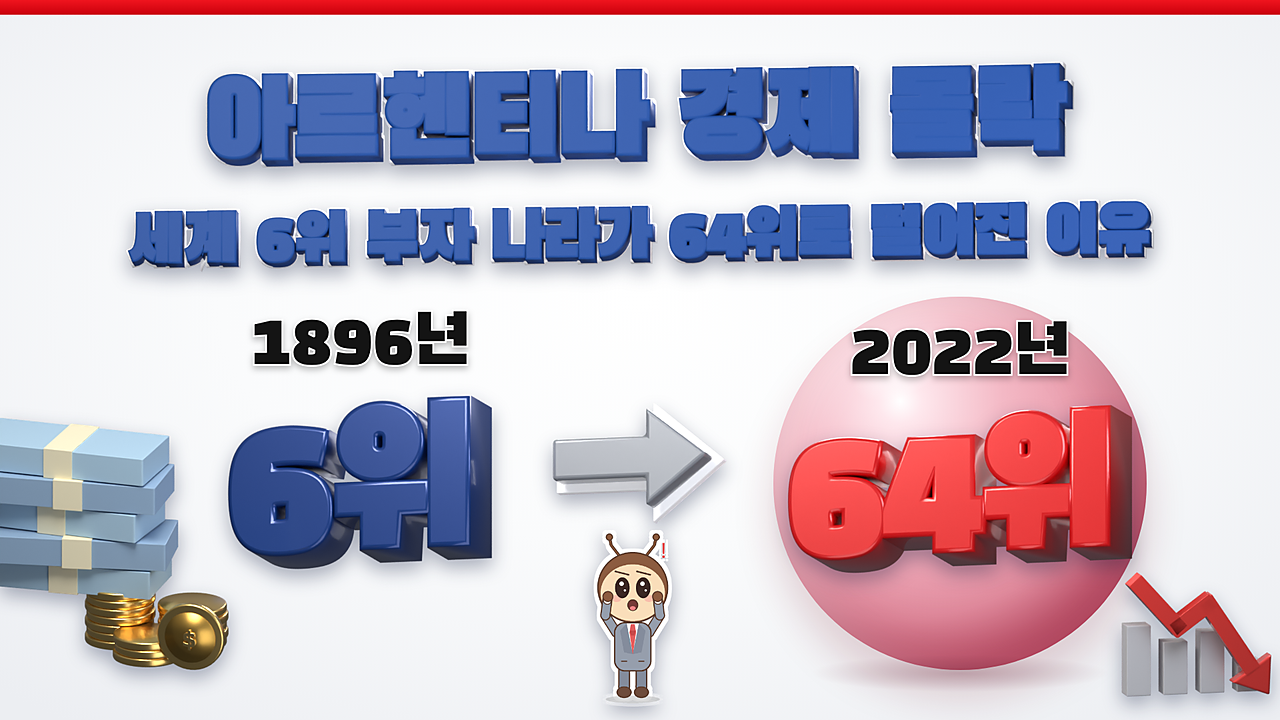
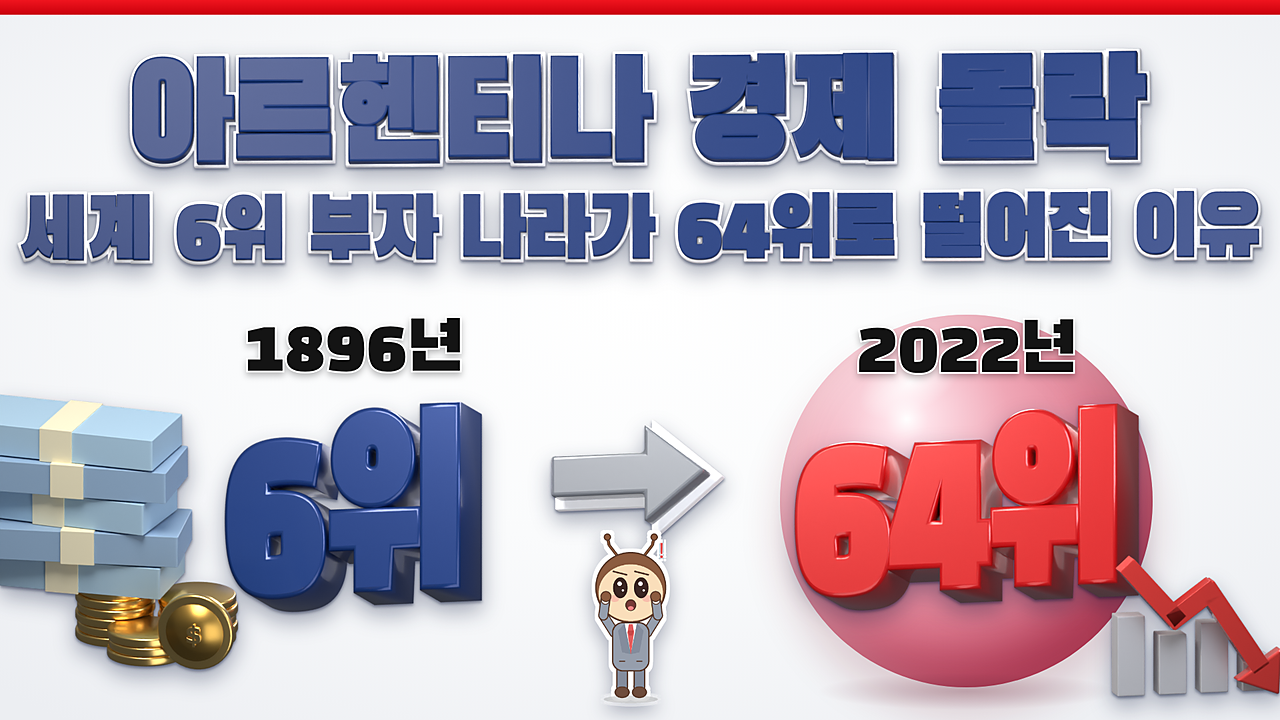
3D 대비형 썸네일 도구 완성·4편 썸네일, 각 편 기본 썸네일을 3D판으로 지정
Claude-Session: https://claude.ai/code/session_01FimgvnFwUXoVfoVUHJw6eG

diff --git a/neural-studio/tools/thumb3d_contrast/make.py b/neural-studio/tools/thumb3d_contrast/make.py
@@ -36,7 +36,7 @@ FONT = next(p for p in (os.path.join(NS, "assets", "fonts", "BlackHanSans.ttf"),
                         "/home/user/hf/thumb/assets/fonts/BlackHanSans-Regular.ttf") if os.path.exists(p))
 MASCOT_DIR = os.environ.get("MASCOT_DIR", "/home/user/hf/thumb/assets/mascot")
 CHROME = os.environ.get("CHROME", "/usr/bin/google-chrome")
-MASCOT_H = 300  # 화면 높이의 약 28%
+MASCOT_H = 330  # 화면 높이의 약 30%
 
 
 def blender(cfg_path, layer, samples, threads):
@@ -64,12 +64,12 @@ def html(cfg, layer, info):
         bb = info[b]
         cx, cy = (bb[0] + bb[2]) / 2, (bb[1] + bb[3]) / 2 - 10
         d = max(bb[2] - bb[0], bb[3] - bb[1]) * 1.02 + 30
-        d = min(d, 760)
+        d = min(d, 800)
         bubble_r = cx + d / 2
         parts.append(
             f'<div class="abs" style="left:{cx - d / 2:.0f}px;top:{cy - d / 2:.0f}px;width:{d:.0f}px;height:{d:.0f}px;border-radius:50%;'
-            'background:radial-gradient(circle at 34% 28%,rgba(255,255,255,.95) 0,rgba(255,225,232,.75) 6%,rgba(238,130,152,.55) 28%,'
-            'rgba(214,66,96,.58) 60%,rgba(170,20,52,.78) 90%,rgba(135,8,38,.85) 100%);'
+            'background:radial-gradient(circle at 34% 28%,rgba(255,255,255,.95) 0,rgba(255,215,225,.75) 6%,rgba(232,110,135,.6) 28%,'
+            'rgba(205,50,82,.66) 60%,rgba(160,14,46,.84) 90%,rgba(125,6,34,.9) 100%);'
             'box-shadow:inset -30px -40px 80px rgba(120,0,30,.35),inset 20px 20px 60px rgba(255,255,255,.45),0 40px 60px rgba(120,20,40,.18)"></div>'
             f'<div class="abs" style="left:{cx - d * 0.30:.0f}px;top:{cy - d * 0.40:.0f}px;width:{d * 0.30:.0f}px;height:{d * 0.16:.0f}px;border-radius:50%;'
             'transform:rotate(-28deg);background:radial-gradient(closest-side,rgba(255,255,255,.9),rgba(255,255,255,0))"></div>')
@@ -78,7 +78,7 @@ def html(cfg, layer, info):
                      'border-radius:50%;background:radial-gradient(closest-side,rgba(90,20,40,.25),rgba(90,20,40,0))"></div>')
     # 3D 레이어
     parts.append(f'<img class="abs" src="file://{layer}" style="left:0;top:0;width:1920px;height:1080px;'
-                 'filter:drop-shadow(0 12px 14px rgba(15,25,60,.35))">')
+                 'filter:drop-shadow(0 3px 2px rgba(10,20,50,.45)) drop-shadow(0 14px 16px rgba(15,25,60,.35))">')
     # 꼬리표
     for side, bb in (("left", L), ("right", R)):
         lab = cfg[side].get("label")

diff --git a/neural-studio/tools/thumb3d_contrast/README.md b/neural-studio/tools/thumb3d_contrast/README.md
@@ -1,0 +1,15 @@
+# 썸네일 '3D 대비형' 도구
+
+채널 기본 썸네일 디자인(`docs/채널규칙_제목썸네일첫15초.md` 2-1, 기준 그림 `assets/thumbs/style_ref/3d_contrast_japan.webp`)을 설정 JSON 하나로 만든다.
+
+```
+cd neural-studio
+python3 tools/thumb3d_contrast/make.py projects/oneshot_japan_parts/thumb3d.json assets/thumbs/oneshot_japan_thumb_3d.png --work <임시폴더>
+#   --samples 40 (기본) · --threads 2 (기본, 다른 렌더와 CPU 나눠 쓰기) · --reuse (Blender 레이어 재사용, HTML 만 다시)
+```
+
+- `scene.py` (Blender 4.5, Cycles, 직교 카메라 1단위=100px): 남색 3D 제목 2줄, 빨강/남색 3D 숫자, 전→후 3D 화살표, 소품
+  (coins cash peso building shield drums/oil pumpjack chart_down chart_up vault watch pill)을 투명 PNG + 위치 JSON 으로.
+- `make.py`: Blender 렌더 → HTML 합성(흰 바탕·빨간 윗띠·유리 구슬·vs·꼬리표·개미 스티커·그림자) → Chrome 캡처 → 1280×720 + 샤픈.
+- 설정 항목은 `make.py` 머리 주석. 예시: `projects/oneshot_{japan,swiss,argentina,saudi}_parts/thumb3d.json`.
+- 한 장: Blender 약 1분 30초(40샘플, 2스레드, CPU 바쁠 때) + 합성 6초.
